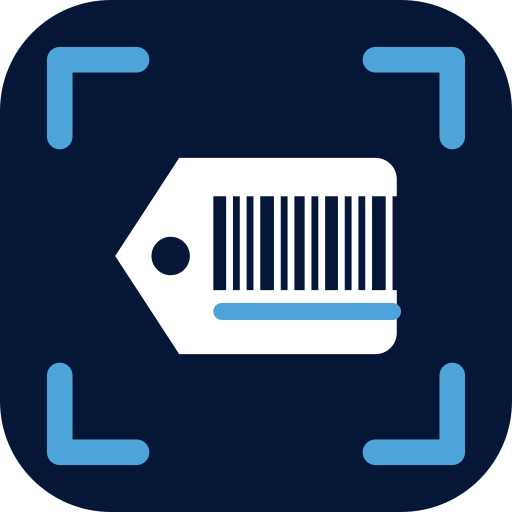
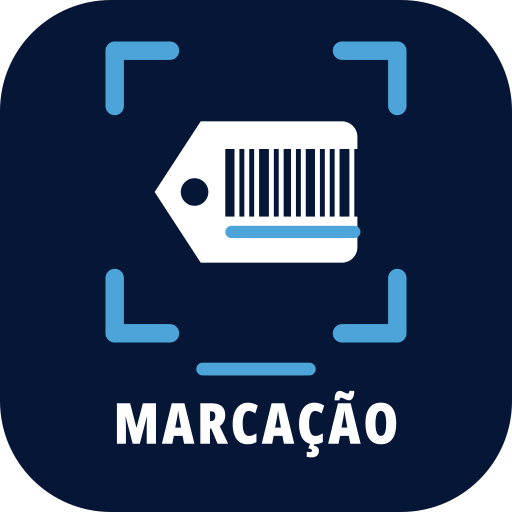
Ícone do app com o nome embaixo do visor (v1.2.2)
Claude-Session: https://claude.ai/code/session_01Bjf9Eyaf2dKr3WrvPdAx1b

diff --git a/index.html b/index.html
@@ -94,7 +94,7 @@ main{padding:12px;max-width:640px;margin:0 auto;padding-bottom:40px}
 // Bluetooth (Web Serial do Chrome) ou pelo app RawBT.
 // Sem dados da empresa no app: logos e nomes vêm dentro do pacote.
 // ======================================================================
-const VER="1.2.1";
+const VER="1.2.2";
 // teclado escondido: o campo recebe o foco como "somente leitura" (o Android não abre o teclado), depois volta a aceitar
 // o texto do leitor e o app pede ao Chrome para esconder o teclado. Tocar no campo abre o teclado para digitar o nº.
 let kbUser=false;const kbHide=()=>{try{if(!kbUser&&navigator.virtualKeyboard)navigator.virtualKeyboard.hide()}catch(e){}};

diff --git a/sw.js b/sw.js
@@ -1,5 +1,5 @@
 // Service worker: deixa o app de marcação e o leitor de códigos disponíveis sem internet
-const CACHE="marcacao-v47";
+const CACHE="marcacao-v48";
 const SHELL=["./","./index.html","./manifest.webmanifest","./icon-192.png","./icon-512.png","./icon-180.png","./logo.png","./icon-maskable-192.png","./icon-maskable-512.png","./qrcode.js"];
 const EXT=["https://cdn.jsdelivr.net/npm/zxing-wasm@2.2.4/dist/iife/reader/index.js","https://cdn.jsdelivr.net/npm/zxing-wasm@2.2.4/dist/reader/zxing_reader.wasm"];
 self.addEventListener("install",e=>{e.waitUntil((async()=>{const c=await caches.open(CACHE);await c.addAll(SHELL);
